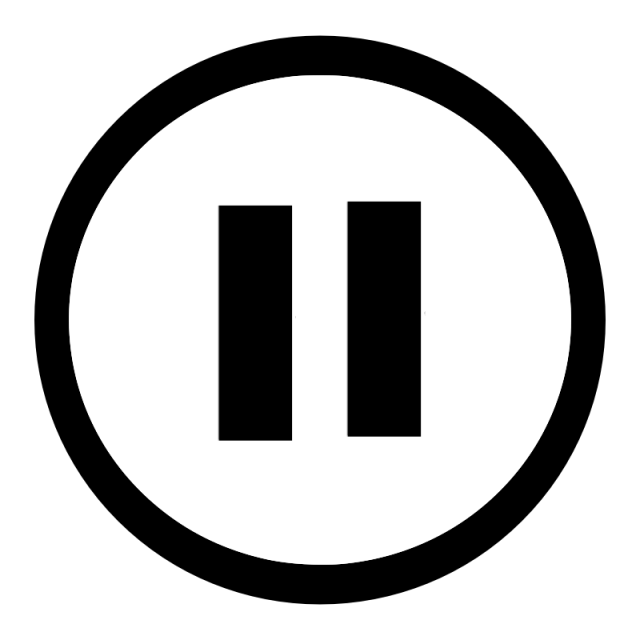
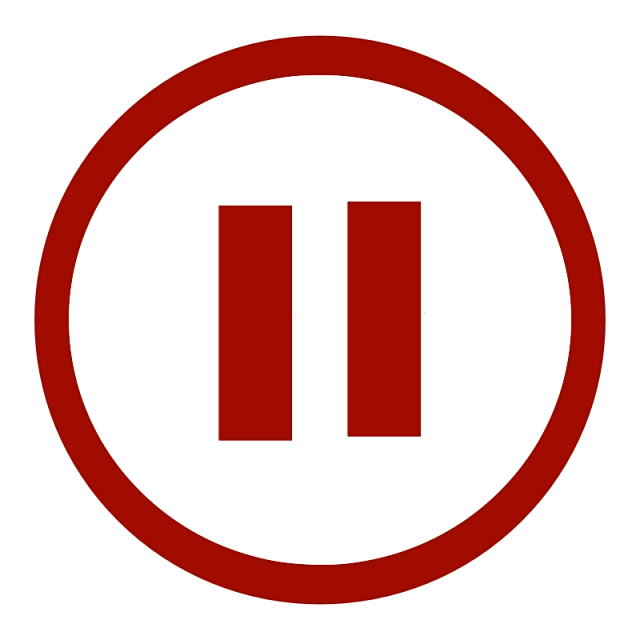
Improved UI, added num bit selection, speed selection, better frame layout for dynamic resizing, and logic for dynamic changes

Changed region(s): [[0.0312, 0.0312, 0.9688, 0.9688], [0.5312, 0.3125, 0.6562, 0.6875], [0.3438, 0.3125, 0.4688, 0.6875]]

diff --git a/src/binarycounter.py b/src/binarycounter.py
@@ -15,15 +15,16 @@ class BinaryCounter:
         """ INIT """
 
         """ Instantiate widget variables """
-        self.binary_frame = None
         self.hex_frame = None
         self.base_frame = None
+        self.row1_frame = None
+        self.row2_frame = None
+        self.row3_frame = None
         self.decimal_label = None
         self.hex_label = None
         self.reset_button = None
         self.pause_play_button = None
-        self.speed_selection = None
-        self.hex_counter_checkbox = None
+        self.speed_selection_menu = None
         self.bit_selection_menu = None
 
         """ Settings """
@@ -31,9 +32,14 @@ class BinaryCounter:
         self.num_bits = Settings.num_bits  # Defaults to 8
         self.hex_display_flag = Settings.hex_display  # Defaults to False
         self.reset_button_color = Settings.RESET_BUTTON_COLOR
+        self.hover_color = Settings.HOVER_COLOR
         self.button_font = Settings.BUTTON_FONT
         self.text_color = Settings.TEXT_COLOR
         self.display_font = Settings.DISPLAY_FONT
+        self.speed_select_font = Settings.SPEED_SELECT_FONT
+        self.speed_select_color = Settings.SPEED_SELECT_COLOR
+        self.bit_select_color = Settings.BIT_SELECT_COLOR
+        self.bit_select_font = Settings.BIT_SELECT_FONT
         self.bg_color = Settings.BACKGROUND_COLOR
         self.icon_size = Settings.ICON_SIZE
         self.play_button_color = Settings.PLAY_BUTTON_COLOR
@@ -41,6 +47,7 @@ class BinaryCounter:
 
         """ Setup """
         self.count = 0
+        self.hex_count = 0x00
         self.pause_flag = False
         self.bit_list = []
         self.max_num = 2 ** self.num_bits - 1
@@ -54,6 +61,7 @@ class BinaryCounter:
 
         self.configure_app()
         self.setup_base_frame()
+        self.setup_row_frames()
         self.setup_binary_display()
         self.configure_permanent_widgets()
         self.grid_permanent_widgets()
@@ -76,6 +84,7 @@ class BinaryCounter:
             self.bit_list[i].configure(text=my_bin_num[i])
 
         self.decimal_label.configure(text=str(self.count))
+        self.hex_label.configure(text=str(hex(self.count)))
 
     def reset_counter(self):
         self.count = 0
@@ -85,67 +94,144 @@ class BinaryCounter:
         if not self.pause_flag:
             self.pause_flag = True
             self.pause_play_button.configure(image=self.play_icon,
-                                             fg_color=self.play_button_color)
+                                             border_color=self.play_button_color)
         else:
             self.pause_flag = False
             self.pause_play_button.configure(image=self.pause_icon,
-                                             fg_color=self.pause_button_color)
+                                             border_color=self.pause_button_color)
             self.update_counter()
 
+    def reset_num_bits(self, new_num: str):
+        self.reset_counter()
+        self.num_bits = int(new_num)
+        for bit_label in self.bit_list:
+            bit_label.destroy()
+        self.bit_list = []
+        self._set_app_size()
+        self.setup_binary_display()
+
+    def set_speed(self, speed: str):
+        if speed == 'SLOW':
+            self.speed = 800
+        elif speed == 'MED':
+            self.speed = 400
+        elif speed == 'FAST':
+            self.speed = 200
+        else:
+            print("INVALID SPEED INPUT")
+
     def configure_app(self):
-        self.app.geometry(f"{self.num_bits * 44}x250")
+        self._set_app_size()
         self.app.title("Binary Counter")
         self.app.iconphoto(True, tk.PhotoImage(file=self.icon_photo_path))
         self.app.configure(fg_color=self.bg_color)
 
+    def _set_app_size(self):
+        size = (self.num_bits * 40 + 180, 350)
+        self.app.geometry(f"{size[0]}x{size[1]}")
+        self.app.minsize(width=size[0], height=size[1])
+
     def setup_base_frame(self):
         self.base_frame = ctk.CTkFrame(self.app, fg_color=self.bg_color)
         self.base_frame.pack(fill='both', expand=True, padx=30, pady=30)
-        for i in range(4):
+        for i in range(3):
             self.base_frame.grid_rowconfigure(i, weight=1)
 
+        self.base_frame.grid_columnconfigure(0, weight=1)
+
+    def setup_row_frames(self):
+        self.row1_frame = ctk.CTkFrame(self.base_frame, fg_color=self.bg_color)
+        self.row2_frame = ctk.CTkFrame(self.base_frame, fg_color=self.bg_color)
+        self.row3_frame = ctk.CTkFrame(self.base_frame, fg_color=self.bg_color)
+
         for i in range(4):
-            self.base_frame.grid_columnconfigure(i, weight=1)
+            self.row2_frame.grid_columnconfigure(i, weight=1)
+
+        for i in range(2):
+            self.row3_frame.grid_columnconfigure(i, weight=1)
+
+        self.row1_frame.grid(row=0, sticky='nsew')
+        self.row2_frame.grid(row=1, sticky='nsew')
+        self.row3_frame.grid(row=2, sticky='nsew')
 
     def setup_binary_display(self):
-        self.binary_frame = ctk.CTkFrame(self.base_frame, fg_color=self.bg_color)
-        self.binary_frame.grid(row=0, column=0, columnspan=4)
-
         for i in range(0, self.num_bits):
-            self.binary_frame.grid_columnconfigure(i, weight=1)
-            bit_label = ctk.CTkLabel(master=self.binary_frame,
+            self.row1_frame.grid_columnconfigure(i, weight=1)
+            bit_label = ctk.CTkLabel(master=self.row1_frame,
                                      font=self.display_font,
                                      text_color=self.text_color,
                                      bg_color=self.bg_color,
                                      text='0', padx=5)
             self.bit_list.append(bit_label)
-            bit_label.grid(row=1, column=i)
+            bit_label.grid(row=1, column=i, sticky='ew')
 
     def setup_hex_display(self):
-        self.hex_frame = ctk.CTkFrame(master=self.base_frame, fg_color=self.bg_color)
+        pass
+        #self.hex_frame = ctk.CTkFrame(master=self.base_frame, fg_color=self.bg_color)
 
     def configure_permanent_widgets(self):
-        self.reset_button = ctk.CTkButton(self.base_frame, text="RESET",
+        self.reset_button = ctk.CTkButton(self.row2_frame, text="RESET",
                                           font=self.button_font,
-                                          text_color=self.text_color,
-                                          fg_color=self.reset_button_color,
-                                          hover_color='dark red',
+                                          border_width=5, height=85, width=85,
+                                          border_color=self.reset_button_color,
+                                          text_color=self.reset_button_color,
+                                          fg_color=self.bg_color,
+                                          hover_color=self.hover_color,
                                           command=self.reset_counter)
 
-        self.decimal_label = ctk.CTkLabel(self.base_frame, font=self.display_font,
-                                          text_color=self.text_color,
-                                          bg_color=self.bg_color, text=str(self.count))
-
-        self.pause_play_button = ctk.CTkButton(self.base_frame,
-                                               font=self.button_font,
-                                               text_color=self.text_color,
-                                               bg_color=self.bg_color,
-                                               fg_color=self.pause_button_color,
-                                               width=80, height=80, text="",
+        self.pause_play_button = ctk.CTkButton(self.row2_frame,
+                                               fg_color=self.bg_color,
+                                               border_width=5,
+                                               border_color=self.pause_button_color,
+                                               hover_color=self.hover_color,
+                                               width=85, height=85, text="",
                                                image=self.pause_icon,
                                                command=self.start_stop_count)
 
+        self.bit_selection_menu = ctk.CTkOptionMenu(self.row2_frame,
+                                                    fg_color=self.bg_color,
+                                                    width=40, height=50,
+                                                    dropdown_fg_color=self.bg_color,
+                                                    button_color=self.bg_color,
+                                                    button_hover_color=self.hover_color,
+                                                    text_color=self.bit_select_color,
+                                                    dropdown_text_color=self.bit_select_color,
+                                                    font=self.bit_select_font,
+                                                    anchor='center',
+                                                    dropdown_font=self.button_font,
+                                                    values=[str(num) for num in [8, 16, 32]],
+                                                    command=self.reset_num_bits)
+
+        self.bit_selection_menu.set(value=str(self.num_bits))
+
+        self.speed_selection_menu = ctk.CTkOptionMenu(self.row2_frame,
+                                                      fg_color=self.bg_color,
+                                                      width=40, height=50,
+                                                      dropdown_fg_color=self.bg_color,
+                                                      button_color=self.bg_color,
+                                                      button_hover_color=self.hover_color,
+                                                      text_color=self.speed_select_color,
+                                                      dropdown_text_color=self.speed_select_color,
+                                                      font=self.speed_select_font,
+                                                      anchor='center',
+                                                      dropdown_font=self.button_font,
+                                                      values=['SLOW', 'MED', 'FAST'],
+                                                      command=self.set_speed)
+
+        self.speed_selection_menu.set(value='MED')
+
+        self.decimal_label = ctk.CTkLabel(self.row3_frame, font=self.display_font,
+                                          text_color=self.text_color,
+                                          bg_color=self.bg_color, text=str(self.count))
+
+        self.hex_label = ctk.CTkLabel(self.row3_frame, font=self.display_font,
+                                      text_color=self.text_color,
+                                      bg_color=self.bg_color, text=str(self.hex_count))
+
     def grid_permanent_widgets(self):
-        self.reset_button.grid(row=2, column=0)
-        self.decimal_label.grid(row=3, column=0, columnspan=self.num_bits)
-        self.pause_play_button.grid(row=2, column=1)
+        self.reset_button.grid(row=0, column=0, stick='ew', padx=5)
+        self.decimal_label.grid(row=0, column=0, sticky='nsew', padx=5)
+        self.hex_label.grid(row=0, column=1, sticky='nsew', padx=5)
+        self.pause_play_button.grid(row=0, column=1, sticky='nsew', padx=5)
+        self.bit_selection_menu.grid(row=0, column=2, sticky='ew', padx=5)
+        self.speed_selection_menu.grid(row=0, column=3, sticky='ew', padx=5)

diff --git a/src/settings.py b/src/settings.py
@@ -10,9 +10,14 @@ class Settings:
     TEXT_COLOR = '#2FBA2F'
     BACKGROUND_COLOR = '#0b0b0b'
     BUTTON_TEXT_COLOR = '#08AF08'
-    RESET_BUTTON_COLOR = '#0A193B'
-    PAUSE_BUTTON_COLOR = '#b73f3f'
-    PLAY_BUTTON_COLOR = '#45a240'
+    BIT_SELECT_COLOR = '#f18212'
+    BIT_SELECT_FONT = (FONT, 36)
+    SPEED_SELECT_FONT = (FONT, 32)
+    SPEED_SELECT_COLOR = '#2616da'
+    HOVER_COLOR = '#1c1a1e'
+    RESET_BUTTON_COLOR = '#6a22e6'
+    PAUSE_BUTTON_COLOR = '#952113'
+    PLAY_BUTTON_COLOR = '#3F7F36'
     BUTTON_FONT = (FONT, 24)
-    ICON_SIZE = (70, 70)
+    ICON_SIZE = (65, 65)
 
